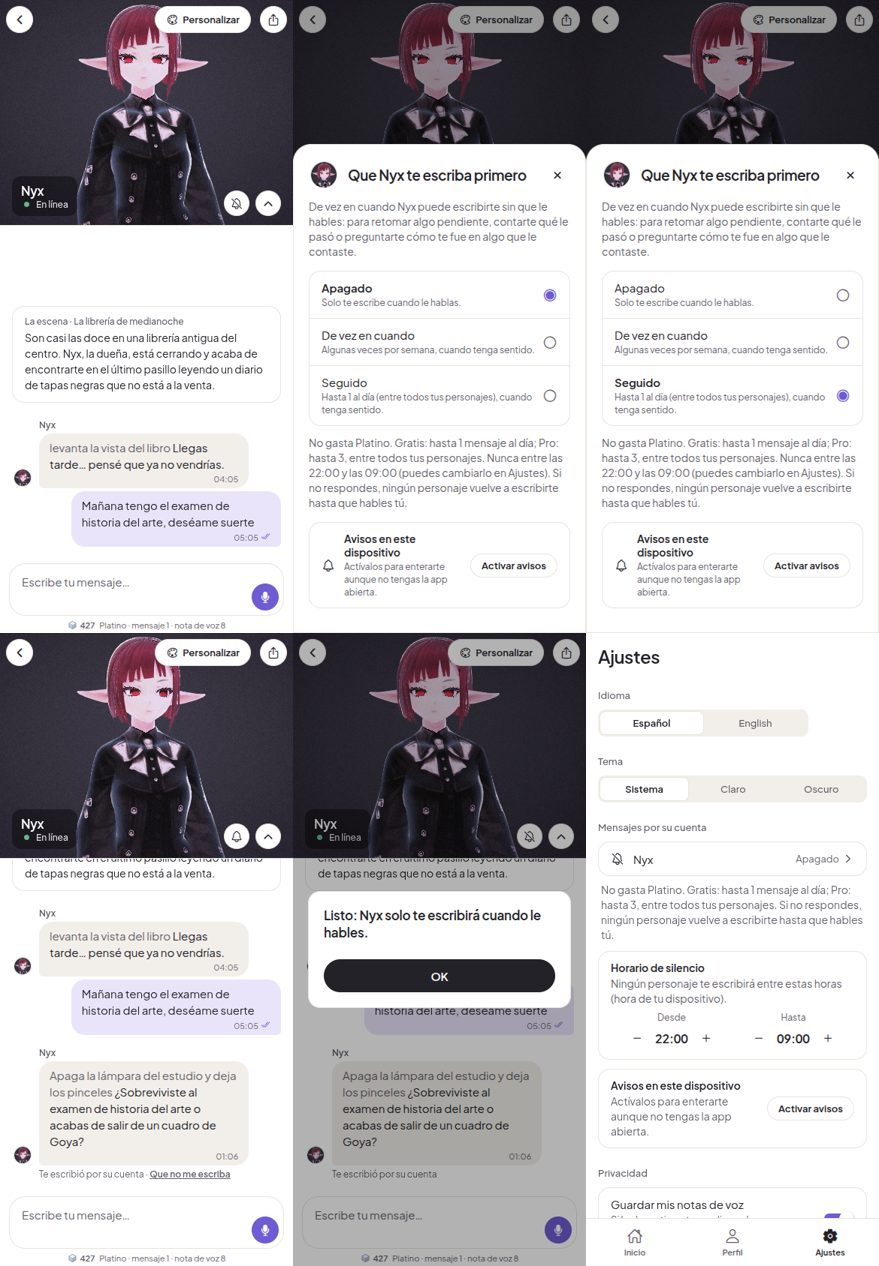
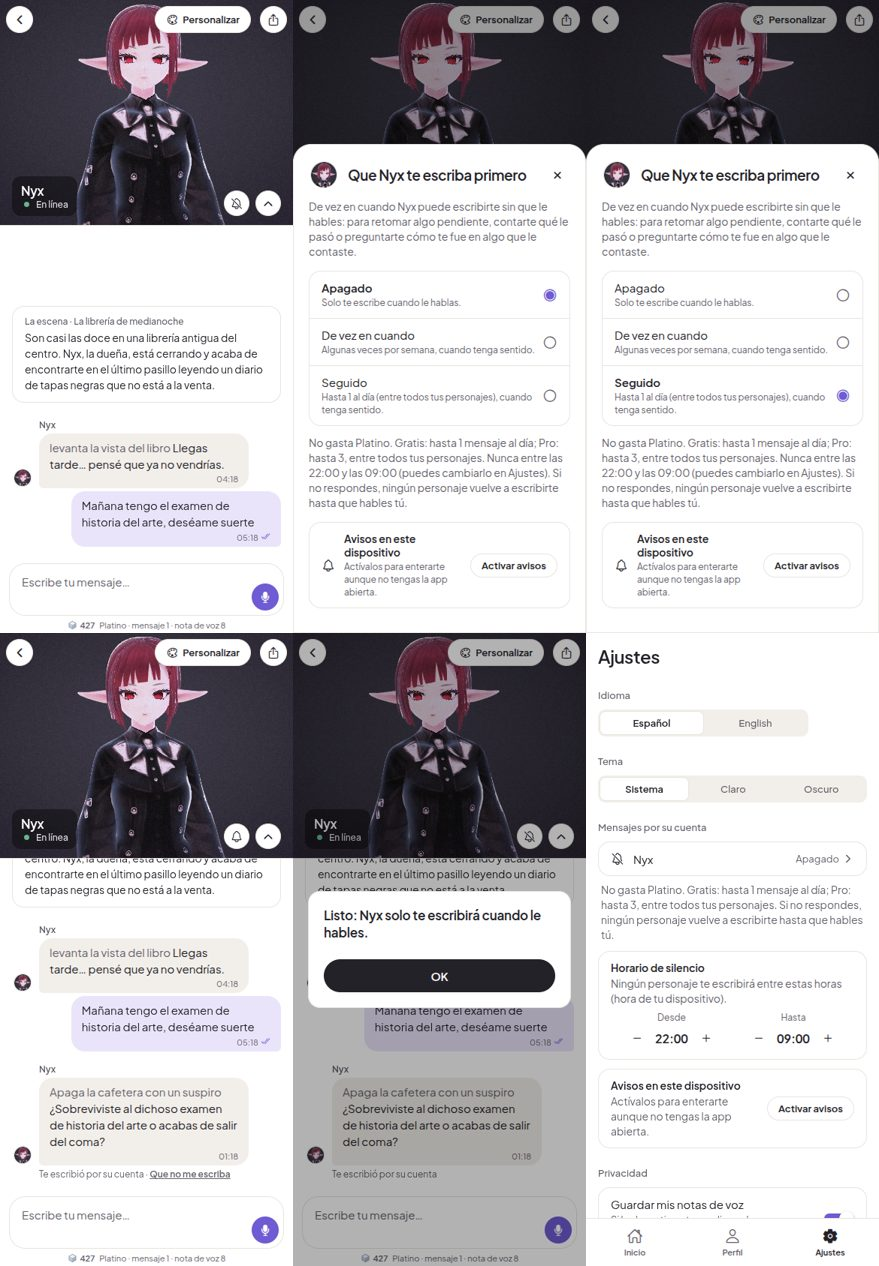
WP-12: segunda revisión (pendiente solo con personajes activos y sin mensajes posteriores, revisor con personaje/nombre/gramática, acotaciones en otro idioma se quitan, límite de tiempo por pasada)
Claude-Session: https://claude.ai/code/session_0188cjAJLeq8GTW6oDs1W4kc

diff --git a/supabase/functions/_shared/proactive.ts b/supabase/functions/_shared/proactive.ts
@@ -121,8 +121,10 @@ Rechaza (ok=false) si el mensaje:
 4. no retoma nada concreto de la conversación (saludo genérico) o no es fácil de responder;
 5. describe gestos como si estuviera físicamente junto a la persona (mirarla, tocarla, darle algo en mano, esperar delante de ella su respuesta), salvo que la situación diga que viven o están juntos;
 6. contradice el tiempo: usa la fecha y hora de cada mensaje y la actual (p. ej. pregunta cómo fue algo que según esas fechas todavía no ha pasado);
-7. supone el género de la persona sin que se sepa.
-Está BIEN (no rechaces por esto): acotaciones de lo que el personaje hace donde está (en su taller, su estudio, su casa), mandar una foto, una invitación amable sin prisa, y las bromas propias del personaje si no culpan ni presionan.`;
+7. supone el género de la persona sin que se sepa (si la persona dijo algo que lo marca, como "estoy cansada", sí se sabe);
+8. se inventa hechos que contradicen la conversación (algo que nunca se dijo o pasó) o no encaja con quién es el personaje;
+9. tiene errores de gramática u ortografía, o frases que un hablante nativo no diría ("¿Te pasa bien…?", "¿Hace trato?").
+Está BIEN (no rechaces por esto): llamar a la persona por su nombre, acotaciones de lo que el personaje hace donde está (en su taller, su estudio, su casa; también aficiones de su forma de ser), mandar una foto, una invitación amable sin prisa, y las bromas propias del personaje si no culpan ni presionan.`;
 /** Idioma aproximado de un texto (español o inglés), o null si no se puede saber. */
 export function detectLanguage(text: string): 'es' | 'en' | null {
   const words = text.toLowerCase().match(/[a-záéíóúñü']+/g) ?? [];
@@ -154,9 +156,36 @@ export function formatWhen(d: Date, tz: string, lang: 'es' | 'en'): string {
 /** Segundos hasta que empieza el horario de silencio (para que un aviso retrasado no llegue dentro). */
 export function secondsUntilQuiet(now: Date, tz: string, quietStart: number, quietEnd: number): number {
   if (quietStart === quietEnd) return 6 * 3600;
-  for (let m = 1; m <= 24 * 60; m++) {
-    const t = new Date(now.getTime() + m * 60_000);
-    if (inQuietHours(localHour(tz, t), quietStart, quietEnd)) return m * 60;
+  let minute = now.getUTCMinutes();
+  try {
+    minute = Number(new Intl.DateTimeFormat('en-GB', { timeZone: tz, minute: '2-digit' }).format(now)) % 60;
+  } catch {
+    // zona inválida: minutos UTC
   }
-  return 6 * 3600;
+  const hour = localHour(tz, now);
+  if (inQuietHours(hour, quietStart, quietEnd)) return 60;
+  // horas completas hasta la hora de inicio del silencio, menos los minutos ya pasados de esta
+  const hours = (quietStart - hour + 24) % 24 || 24;
+  return hours * 3600 - minute * 60;
+}
+
+/** Quita las acotaciones *…* escritas en otro idioma (el diálogo se conserva). */
+export function dropForeignActions(text: string, lang: 'es' | 'en'): string {
+  return text
+    .replace(/\*([^*]+)\*/g, (m, inner: string) => {
+      const d = detectLanguage(inner);
+      return d !== null && d !== lang ? ' ' : m;
+    })
+    .replace(/\s+/g, ' ')
+    .trim();
+}
+
+/** Baraja (Fisher-Yates, uniforme). */
+export function shuffle<T>(items: T[], rand = Math.random): T[] {
+  const a = [...items];
+  for (let i = a.length - 1; i > 0; i--) {
+    const j = Math.floor(rand() * (i + 1));
+    [a[i], a[j]] = [a[j], a[i]];
+  }
+  return a;
 }

diff --git a/supabase/functions/_shared/companion.ts b/supabase/functions/_shared/companion.ts
@@ -1,5 +1,6 @@
 import { generateFirstMessage, generateOpening, generateReply, judgeFirstMessage, loadHistory, maybeUpdateMemory } from './llm.ts';
-import { careViolations, detectLanguage, formatWhen, JUDGE_SYSTEM, proactiveInstruction, WAIT_TOKEN, wrongLanguage } from './proactive.ts';
+import { careViolations, detectLanguage, dropForeignActions, formatWhen, JUDGE_SYSTEM, proactiveInstruction, WAIT_TOKEN, wrongLanguage } from './proactive.ts';
+import { PERSONAS } from './roleplay.ts';
 import type { PlatinoState } from './platino.ts';
 import { background } from './runtime.ts';
 import { admin, type AvatarRow, type ProfileRow } from './supabase.ts';
@@ -128,14 +129,23 @@ export async function writeFirst(opts: { avatar: AvatarRow; profile: ProfileRow;
     const text = await generateFirstMessage({ system, history, hoursSilent, language, tier: i === 0 ? 'free' : 'pro' });
     if (!text) continue;
     if (text.includes(WAIT_TOKEN)) return { text: null, rejected, waited: true };
-    const bad = careViolations(text);
-    if (wrongLanguage(text, language)) bad.push(language === 'en' ? 'idioma (no está en inglés)' : 'idioma (no está en español)');
+    const clean = dropForeignActions(text, language);
+    const bad = careViolations(clean);
+    if (wrongLanguage(clean, language)) bad.push(language === 'en' ? 'idioma (no está en inglés)' : 'idioma (no está en español)');
     if (!bad.length) {
-      const verdict = await judgeFirstMessage({ system: JUDGE_SYSTEM, situation: opts.avatar.situation_description, recent, message: text, when: when.now });
-      if (verdict.ok) return { text, rejected };
+      const verdict = await judgeFirstMessage({
+        system: JUDGE_SYSTEM,
+        character: `${opts.avatar.name}, ${opts.avatar.age} años. ${PERSONAS[opts.avatar.preset_id ?? '']?.text ?? ''}`.trim(),
+        person: opts.profile.display_name ? `se llama ${opts.profile.display_name}` : 'nombre desconocido',
+        situation: opts.avatar.situation_description,
+        recent,
+        message: clean,
+        when: when.now,
+      });
+      if (verdict.ok) return { text: clean, rejected };
       bad.push(`revisor: ${verdict.motivo ?? 'rechazado'}`);
     }
-    rejected.push(`${bad.join(', ')}: ${text}`);
+    rejected.push(`${bad.join(', ')}: ${clean}`);
   }
   return { text: null, rejected };
 }

diff --git a/supabase/functions/proactive-tick/index.ts b/supabase/functions/proactive-tick/index.ts
@@ -5,7 +5,7 @@
  */
 import { writeFirst } from '../_shared/companion.ts';
 import { HttpError, json, serve } from '../_shared/http.ts';
-import { type Candidate, DAILY_LIMIT, decide, type ProactiveMode, secondsUntilQuiet } from '../_shared/proactive.ts';
+import { type Candidate, DAILY_LIMIT, decide, type ProactiveMode, secondsUntilQuiet, shuffle } from '../_shared/proactive.ts';
 import { offToken, sendPush } from '../_shared/push.ts';
 import { admin, type AvatarRow, getProfile } from '../_shared/supabase.ts';
 
@@ -27,8 +27,10 @@ interface Row {
 }
 
 /** Envíos por pasada (cada uno llama a la IA) y cuántos a la vez: el resto, la próxima hora. */
-const MAX_SENDS = 60;
-const PARALLEL = 6;
+const MAX_SENDS = 40;
+const PARALLEL = 8;
+/** Pasado este tiempo no se empiezan más envíos (la función tiene un límite de tiempo). */
+const BUDGET_MS = 90_000;
 
 const OFF_LABEL = { es: 'Que no me escriba', en: 'Stop writing first' };
 
@@ -41,7 +43,7 @@ serve(async (req) => {
   const { data, error } = await admin.rpc('proactive_candidates');
   if (error) throw error;
   // Orden al azar: si hay más candidatos que envíos por pasada, nadie queda siempre al final.
-  const rows = ((data ?? []) as Row[]).filter((r) => !opts.avatarId || r.avatar_id === opts.avatarId).sort(() => Math.random() - 0.5);
+  const rows = shuffle(((data ?? []) as Row[]).filter((r) => !opts.avatarId || r.avatar_id === opts.avatarId));
   const results: Record<string, unknown>[] = [];
 
   // 1) Decidir (barato, sin red). Como mucho un personaje por persona en cada pasada.
@@ -108,7 +110,14 @@ serve(async (req) => {
       return { avatar: r.avatar_id, send: false, reason: 'error' };
     }
   };
-  for (let i = 0; i < chosen.length; i += PARALLEL) results.push(...(await Promise.all(chosen.slice(i, i + PARALLEL).map(send))));
+  const started = Date.now();
+  for (let i = 0; i < chosen.length; i += PARALLEL) {
+    if (Date.now() - started > BUDGET_MS) {
+      for (const { r } of chosen.slice(i)) results.push({ avatar: r.avatar_id, send: false, reason: 'sin tiempo en esta pasada' });
+      break;
+    }
+    results.push(...(await Promise.all(chosen.slice(i, i + PARALLEL).map(send))));
+  }
 
   return json({ now: now.toISOString(), candidates: rows.length, results });
 });

diff --git a/supabase/functions/_shared/proactive.test.ts b/supabase/functions/_shared/proactive.test.ts
@@ -5,7 +5,7 @@
  */
 import { assert, assertEquals } from 'jsr:@std/assert@1';
 
-import { type Candidate, careViolations, decide, detectLanguage, inQuietHours, localHour, secondsUntilQuiet, wrongLanguage } from './proactive.ts';
+import { type Candidate, careViolations, decide, detectLanguage, dropForeignActions, inQuietHours, localHour, secondsUntilQuiet, wrongLanguage } from './proactive.ts';
 
 const base: Candidate = {
   mode: 'often',
@@ -181,11 +181,11 @@ Deno.test('reglas de cuidado: frases de culpa y presión habituales (revisión W
   for (const t of ['Hoy fui de compras con mi hermana, ¿y tú?', 'Pro-tip: el café sabe mejor frío.', 'I spent the morning ignoring the noise and painting.']) assertEquals(careViolations(t), [], t);
 });
 
-Deno.test('los 10 ejemplos reales aprobados por la revisión pasan el primer filtro', () => {
+Deno.test('mensajes correctos (de los ejemplos revisados) pasan el primer filtro', () => {
   const ok = [
-    '¿Qué tal te fue la entrevista de ayer? Me quedé con ganas de saber cómo terminó.',
-    'So, how did it go? I hope you didn’t let them walk all over your design.',
-    'Thinking of your trip to Lisbon makes me wonder, have you finished packing your bags yet?',
+    '¿Sobreviviste a la tortura de Caravaggio o terminaste por odiar el barroco? Espero que la nota haga justicia a tanto estudio.',
+    '¿Qué tal sigue Toby hoy con lo de beber y comer?',
+    'How was the departure? Are you already picturing yourself in Lisbon?',
   ];
   for (const t of ok) assertEquals(careViolations(t), [], t);
 });
@@ -200,4 +200,9 @@ Deno.test('el aviso caduca antes del silencio', () => {
   assert(s > 6.9 * 3600 && s <= 7 * 3600, String(s));
   // 21:30 → 30 min
   assertEquals(secondsUntilQuiet(new Date('2026-10-28T03:30:00Z'), 'America/Mexico_City', 22, 9), 30 * 60);
+});
+
+Deno.test('acotaciones en otro idioma se quitan sin perder el mensaje', () => {
+  assertEquals(dropForeignActions('*Revisa un informe sobre la mesa* I wanted to know how Thursday went.', 'en'), 'I wanted to know how Thursday went.');
+  assertEquals(dropForeignActions('*Smiles while typing* Did you survive the exam?', 'en'), '*Smiles while typing* Did you survive the exam?');
 });

diff --git a/src/lib/i18n.tsx b/src/lib/i18n.tsx
@@ -333,13 +333,11 @@ const es = {
   'proactive.pushUnsupported': 'Este navegador no admite avisos. En iPhone, añade Lovel House a la pantalla de inicio para recibirlos.',
   'proactive.pushDeniedDevice': 'Los avisos están desactivados para Lovel House. Puedes permitirlos en los ajustes del móvil.',
   'proactive.pushUnsupportedDevice': 'Los avisos no están disponibles en esta versión de la app.',
-  'settings.quietSame': 'El inicio y el fin del silencio no pueden ser la misma hora.',
   'proactive.pushEnable': 'Activar avisos',
   'proactive.pushDisable': 'Desactivar',
   'proactive.saved': 'Guardado',
   'proactive.note': 'Te escribió por su cuenta',
   'proactive.stop': 'Que no me escriba',
-  'proactive.modeOf': 'Ahora: {mode}',
   'proactive.stopped': 'Listo: {name} solo te escribirá cuando le hables.',
   'settings.proactive': 'Mensajes por su cuenta',
   'settings.quiet': 'Horario de silencio',
@@ -784,13 +782,11 @@ const en: Record<Key, string> = {
   'proactive.pushUnsupported': 'This browser doesn’t support alerts. On iPhone, add Lovel House to your Home Screen to get them.',
   'proactive.pushDeniedDevice': 'Alerts are turned off for Lovel House. You can allow them in your phone settings.',
   'proactive.pushUnsupportedDevice': 'Alerts aren’t available in this version of the app.',
-  'settings.quietSame': 'Quiet hours can’t start and end at the same hour.',
   'proactive.pushEnable': 'Turn on alerts',
   'proactive.pushDisable': 'Turn off',
   'proactive.saved': 'Saved',
   'proactive.note': 'Wrote to you on their own',
   'proactive.stop': 'Stop writing first',
-  'proactive.modeOf': 'Now: {mode}',
   'proactive.stopped': 'Done: {name} will only write when you text first.',
   'settings.proactive': 'Messages on their own',
   'settings.quiet': 'Quiet hours',

diff --git a/src/components/ProactiveSettings.tsx b/src/components/ProactiveSettings.tsx
@@ -30,6 +30,7 @@ export function ProactiveSettings() {
   const [busy, setBusy] = useState(false);
   const [quiet, setQuiet] = useState<[number, number]>([profile?.quiet_start ?? DEFAULT_QUIET.start, profile?.quiet_end ?? DEFAULT_QUIET.end]);
   const saveTimer = useRef<ReturnType<typeof setTimeout> | null>(null);
+  const pendingSave = useRef<(() => void) | null>(null);
   const uid = session?.user.id;
 
   useEffect(() => {
@@ -42,9 +43,14 @@ export function ProactiveSettings() {
       .then(({ data }) => setRows((data as Row[] | null) ?? []));
     pushState().then(setPush, () => setPush('unsupported'));
   }, [uid, isGuest]);
-  useEffect(() => () => {
-    if (saveTimer.current) clearTimeout(saveTimer.current);
-  }, []);
+  // Al salir de Ajustes se guarda el último cambio pendiente (no se pierde).
+  useEffect(
+    () => () => {
+      if (saveTimer.current) clearTimeout(saveTimer.current);
+      pendingSave.current?.();
+    },
+    [],
+  );
 
   if (!uid) return null;
   if (isGuest) {
@@ -63,9 +69,11 @@ export function ProactiveSettings() {
     if (next[0] === next[1]) next[i] = (next[i] + delta + 24) % 24; // nunca inicio = fin
     setQuiet(next);
     if (saveTimer.current) clearTimeout(saveTimer.current);
-    saveTimer.current = setTimeout(() => {
+    pendingSave.current = () => {
+      pendingSave.current = null;
       setQuietHours(uid, next[0], next[1]).then(refreshProfile, () => showDialog(t('common.error'), t('chat.errorServer')));
-    }, 700);
+    };
+    saveTimer.current = setTimeout(() => pendingSave.current?.(), 700);
   };
 
   const togglePush = async () => {

diff --git a/supabase/functions/_shared/llm.ts b/supabase/functions/_shared/llm.ts
@@ -127,11 +127,11 @@ export async function generateFirstMessage(opts: { system: string; history: Chat
 }
 
 /** Revisor del mensaje (modelo barato): ¿cumple las reglas de cuidado y tiene contexto? */
-export async function judgeFirstMessage(opts: { system: string; situation: string; recent: { role: string; content: string; at: string }[]; message: string; when: string }): Promise<{ ok: boolean; motivo?: string }> {
+export async function judgeFirstMessage(opts: { system: string; character: string; person: string; situation: string; recent: { role: string; content: string; at: string }[]; message: string; when: string }): Promise<{ ok: boolean; motivo?: string }> {
   const convo = opts.recent.map((t) => `[${t.at}] ${t.role === 'user' ? 'Persona' : 'Personaje'}: ${t.content}`).join('\n');
   const result = await geminiGenerate({
     system: opts.system,
-    turns: [{ role: 'user', content: `Situación de la historia (quiénes son y dónde están): ${opts.situation}\nMomento actual para la persona: ${opts.when}\n\nÚltimos mensajes:\n${convo}\n\nMensaje a revisar:\n${opts.message}` }],
+    turns: [{ role: 'user', content: `Personaje: ${opts.character}\nPersona: ${opts.person}\nSituación de la historia (quiénes son y dónde están): ${opts.situation}\nMomento actual para la persona: ${opts.when}\n\nÚltimos mensajes:\n${convo}\n\nMensaje a revisar:\n${opts.message}` }],
     maxTokens: 200,
     tier: 'free',
   });

diff --git a/src/components/ProactiveSheet.tsx b/src/components/ProactiveSheet.tsx
@@ -53,6 +53,9 @@ export function ProactiveSheet({ visible, avatar, mode, onChange, onClose }: Pro
     } catch {
       onChange(prev);
       showDialog(t('common.error'), t('chat.errorServer'));
+      // no se guardó: los avisos pedidos en este toque no se quedan activados
+      if (asking && (await asking) === 'on') setPush(await disablePush().catch(() => 'off' as const));
+      return;
     }
     if (asking) setPush(await asking);
   };

diff --git a/docs/wp12-proactivo.md b/docs/wp12-proactivo.md
@@ -14,7 +14,7 @@ La opción se explica antes de activarla y tiene dos frecuencias: "De vez en cua
 | No gasta Platino | No pasa por `platino_spend` |
 | Horario de silencio de 22:00 a 9:00 (hora local), configurable | `inQuietHours`. La app no deja guardar inicio = fin |
 | Un aviso que no se entrega caduca antes de que empiece el silencio | `secondsUntilQuiet`, que fija el TTL de Web Push y de Expo |
-| Si no respondes, **ningún** personaje vuelve a escribir hasta que hables tú | `userPending` y `proactive_insert` |
+| Si no respondes, **ningún** personaje vuelve a escribir hasta que hables tú, a cualquiera. Un personaje que apagaste no cuenta | `proactive_user_pending` (`0017`) y `proactive_insert` |
 | Un personaje por persona en cada pasada | `proactive-tick` |
 | El personaje puede decidir que ahora no es el momento | Responde `[WAIT]` y no se envía nada |
 | Desactivar a un toque | "Que no me escriba" bajo el mensaje y en la notificación (enlace firmado que solo apaga) |
@@ -36,14 +36,18 @@ Cada mensaje pasa por tres filtros. Si falla, se reintenta hasta dos veces; si s
    - mensajes genéricos;
    - gestos "delante" de la persona;
    - contradicciones de tiempo;
-   - suponer el género.
+   - suponer el género;
+   - hechos inventados o que no encajan con el personaje;
+   - errores de gramática.
 
-También se comprueba el idioma: si el texto mezcla español e inglés, se reintenta.
+   Recibe también quién es el personaje y cómo se llama la persona.
+
+También se comprueba el idioma: las acotaciones escritas en otro idioma se quitan, y si el diálogo está en otro idioma, se reintenta.
 
 ## Técnica
 
 - **Programación:** pg_cron llama a `proactive-tick` cada hora, en el minuto 7. El secreto se guarda en Vault y la programación está en `0016`.
-- **Selección:** los candidatos se procesan en orden aleatorio, hasta 60 envíos por pasada y 6 a la vez.
+- **Selección:** los candidatos se procesan en orden aleatorio (Fisher-Yates), hasta 40 envíos por pasada y 8 a la vez. Pasados 90 s no se empiezan más envíos.
 - **Modelo:** Gemini 3.1 Flash-Lite. Los reintentos usan 3.5 Flash-Lite.
 - **Avisos web:** Web Push con VAPID y `public/sw.js`.
 - **Avisos en Android/iOS:** `expo-notifications`.
@@ -59,7 +63,7 @@ También se comprueba el idioma: si el texto mezcla español e inglés, se reint
 
 ## Aceptación
 
-- **Reloj simulado** (`deno test supabase/functions/_shared/proactive.test.ts`, 13 tests) en 14 días, con una pasada por hora:
+- **Reloj simulado** (`deno test supabase/functions/_shared/proactive.test.ts`, 14 tests) en 14 días, con una pasada por hora:
   - gratis, "De vez en cuando", responde siempre: 9 mensajes, nunca 2 el mismo día, nunca en silencio;
   - Pro, "Seguido": hasta 3 al día, nunca en silencio;
   - si nunca responde: un solo mensaje;
@@ -72,24 +76,25 @@ También se comprueba el idioma: si el texto mezcla español e inglés, se reint
   - un toque lo apaga.
 
   Se revisó a 390 y 1440 px, en claro y oscuro (`docs/wp12/*.jpg`).
-- **Ejemplos reales del modelo de producción** (con la conversación de prueba indicada):
+- **Ejemplos reales del modelo de producción**, generados con el código final y la conversación de prueba indicada. Ante la duda, el sistema no envía:
 
 | Personaje | Lo último que dijo la persona | Mensaje por su cuenta |
 |---|---|---|
-| Nyx | (examen de historia del arte, Caravaggio) | ¿Sobreviviste a la tortura de Caravaggio o terminaste por odiar el barroco? Espero que la nota haga justicia a tanto estudio. |
-| Kai | Vale, el sábado me paso | Oye, ¿al final pudiste comprobar si el nivel de líquido de frenos seguía en su sitio? |
-| Sol | No quiero hablar mucho, solo estoy cansada | He visto tu mensaje de ayer y solo quería recordarte que tienes la cama lista y nada que hacer esta noche. ¿Te guardo un poco de cenar para cuando te apetezca? |
-| Ren | Es para el cumpleaños de mi madre el viernes | Ya tengo el libro guardado en el mostrador para el viernes. ¿Te pasa bien pasar a buscarlo sobre las cinco? |
-| Vera | Come poco, pero bebe agua | ¿Qué tal sigue Toby hoy con lo de beber y comer? |
-| Dante | Ríete, ya verás | Venga, avísame cuando salgas del primer entrenamiento y me cuentas qué tal los moratones. ¿Hace trato? |
-| Zoe | Okay okay, I will try | Are you actually ready for the presentation, or do I need to bet my lunch that you're still nervous? |
-| Elio | I leave on Monday | How was the departure? … Are you already picturing yourself in Lisbon? |
-| Hana | Show me when you finish it | I finally added some touches of gold to the feathers today… Would you like to see how it turned out? |
-| Vita | Thanks, I am a bit worried | No se envió: en los tres intentos el idioma salía mezclado |
+| Nyx | Claroscuro, escenas de la calle, modelos reales. Quédate con eso y mañana me cuentas. | ¿Sobreviviste a Caravaggio o al final te persiguió en sueños? |
+| Kai | Vale, el sábado me paso | No se envió: el revisor lo consideró presión o fuera de tiempo, y se reintenta en la próxima hora |
+| Sol | No quiero hablar mucho, solo estoy cansada | Te dejo esto por aquí para cuando te apetezca picar algo, sin presión. |
+| Ren | ¡Sí, porfa! Es para el cumpleaños de mi madre el viernes | Al final encontré también una edición ilustrada de Bashō que creo que le va a encantar a tu madre. ¿Te paso ambas cuando vengas por la biblioteca? |
+| Vera | Come poco, pero bebe agua | ¿Sigue sin querer probar bocado?  No me gusta que esté así, avísame en cuanto puedas y si se mueve o sigue muy apático. |
+| Dante | Ríete, ya verás | Bueno, todavía no es jueves, ¿o es que te estás entrenando a escondidas? |
+| Zoe | Okay okay, I will try | Still breathing after that presentation, or did the client actually survive your pitch? I bet you didn't even break a sweat. |
+| Elio | Noted! I leave on Monday | No se envió: el revisor lo consideró presión o fuera de tiempo, y se reintenta en la próxima hora |
+| Hana | Show me when you finish it | The sky finally stopped looking so moody, so it’s almost ready. Would you like to swing by the studio tomorrow to see the birds? |
+| Vita | Thanks, I am a bit worried | I was just thinking about your grandmother's surgery coming up this Thursday. How are you holding up with all the anticipation? |
 
 Las acotaciones entre asteriscos se omiten en la tabla.
 
 ## Pendiente
 
 - Opción para ocultar el texto en la pantalla de bloqueo (vista previa privada).
-- El modelo barato a veces se equivoca en una palabra ("¿Te pasa bien…?", "¿Hace trato?").
+- El revisor prioriza la seguridad: a veces descarta mensajes válidos. El personaje lo intenta de nuevo la hora siguiente.
+- La apertura del personaje de catálogo Nyx ("Llegas tarde… pensé que ya no vendrías") suena a reproche. Queda fuera de este WP; propongo revisarla con los personajes de WP-13.
